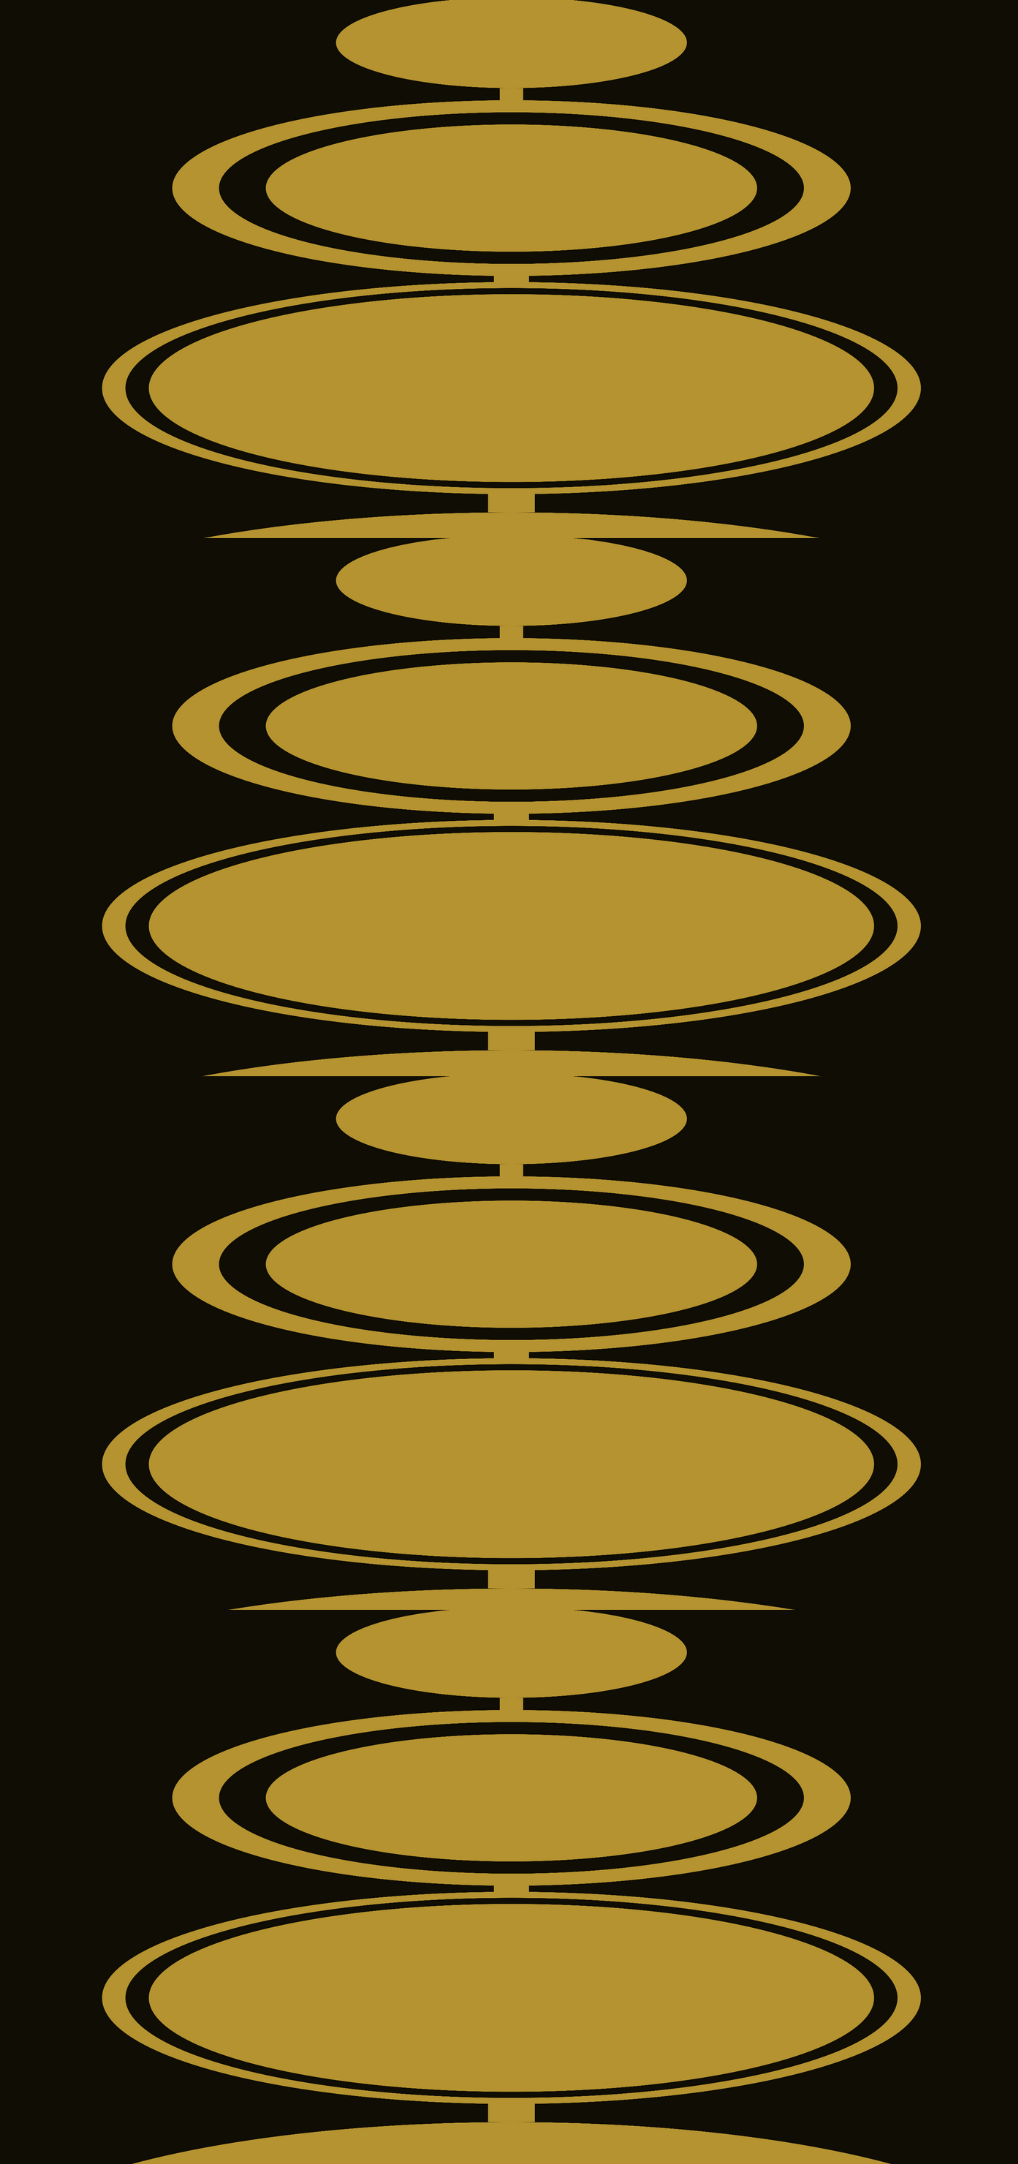
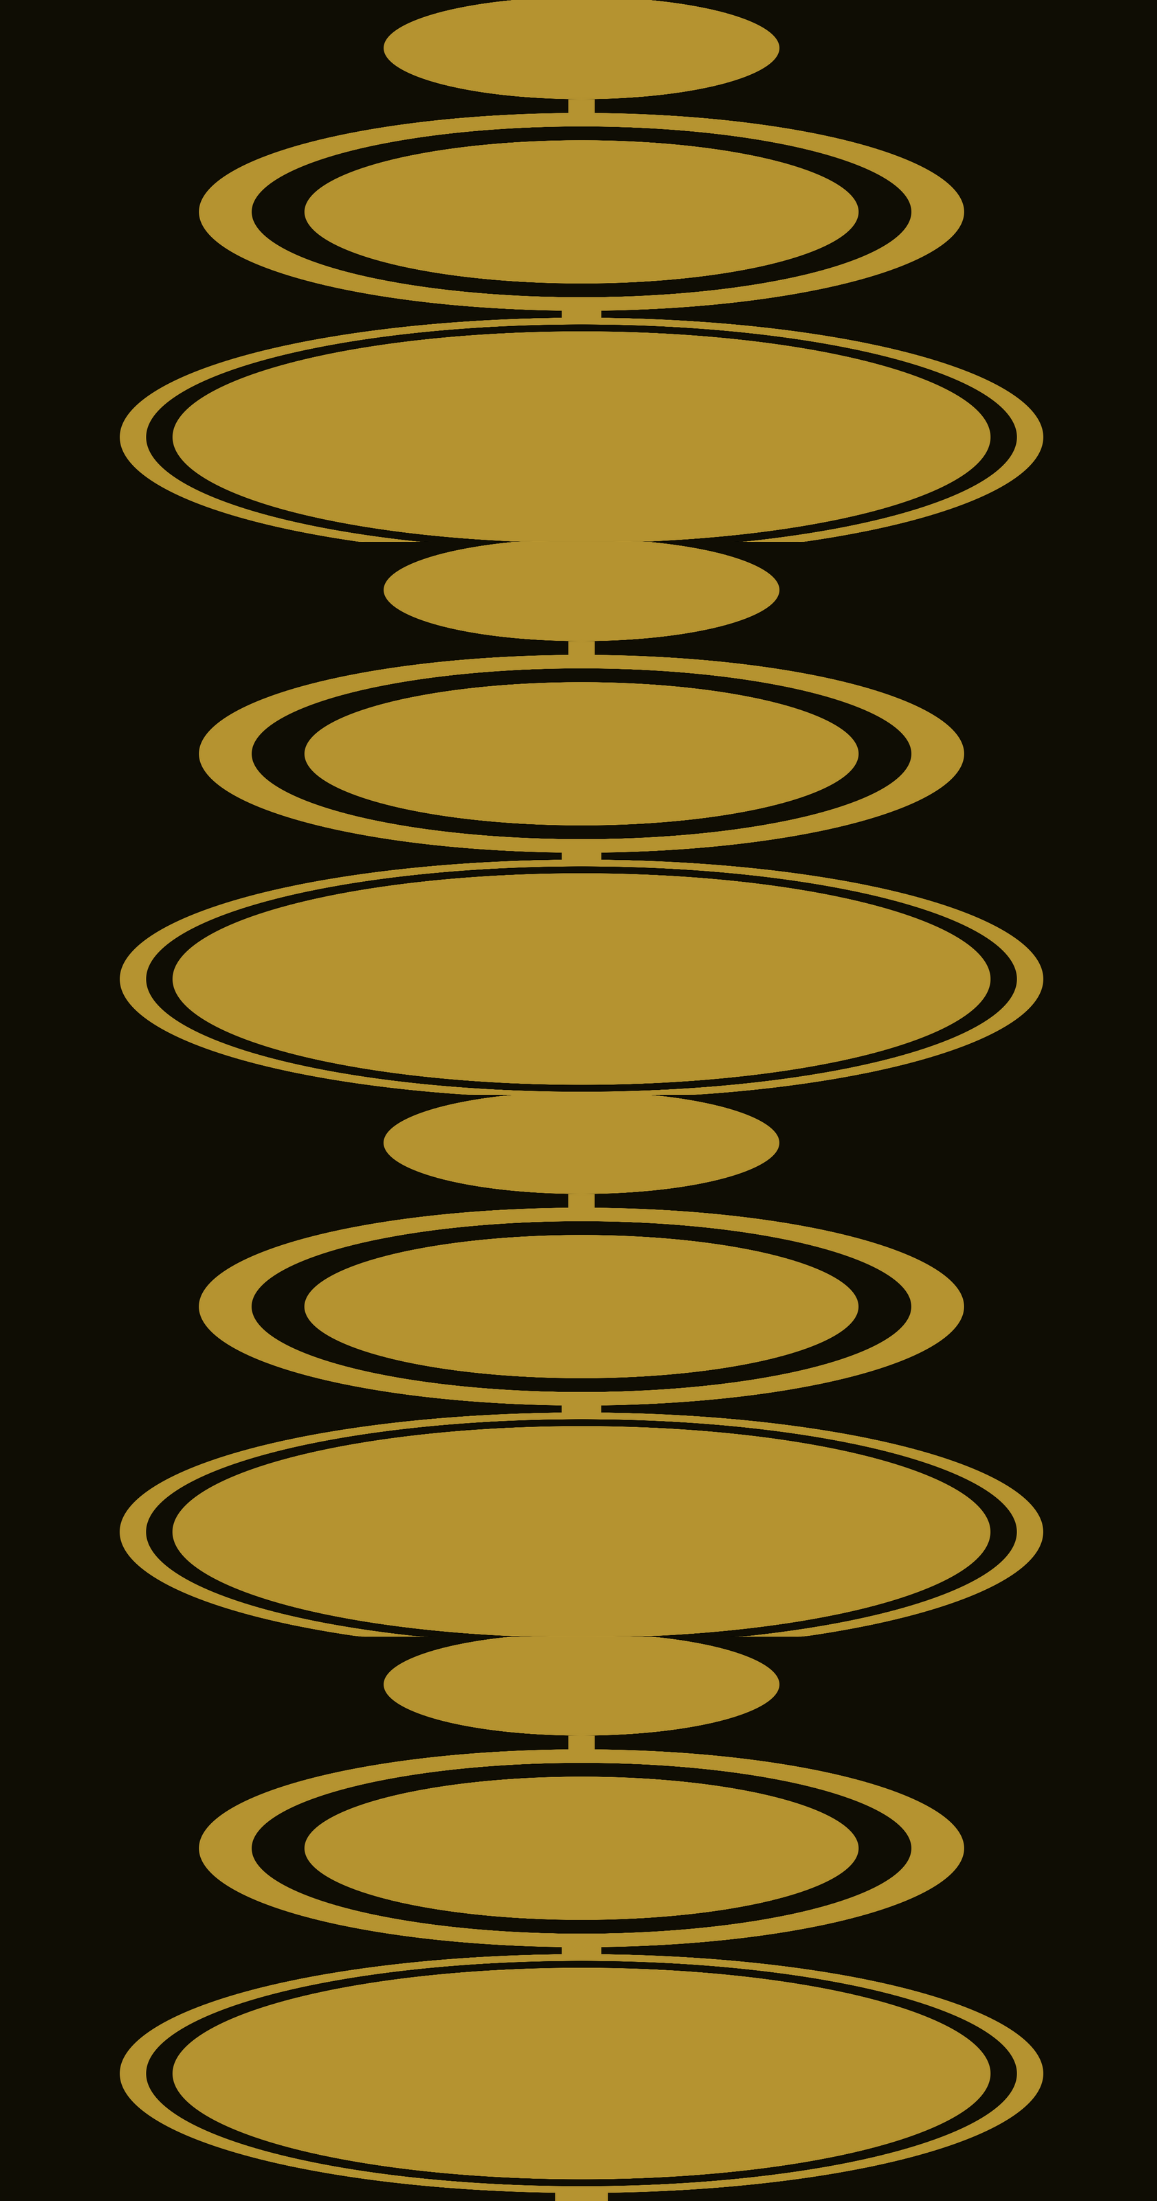
updated background

Changed region(s): [[0.0914, 0.2787, 0.9136, 1.0], [0.0914, 0.0, 0.9136, 0.2477]]

diff --git a/src/components/Videos/Videos.jsx b/src/components/Videos/Videos.jsx
@@ -7,10 +7,12 @@ const Videos = () => {
         <main id='Videos' className='flex flex-col items-center justify-center w-full h-auto'>
             <article className='videos-header flex justify-center items-center w-full h-16'>
                 <img src={ZepSymbolThree} alt='Zeppelin Symbol' className='w-10 h-10' />
-                <header className='flex justify-center items-center text-5xl mx-10'>VIDEOS</header>
+                <header className='flex justify-center items-center text-5xl mx-10'>VIDEO</header>
                 <img src={ZepSymbolThree} alt='Zeppelin Symbol' className='w-10 h-10' />
             </article>
-            <Video />
+            <article className='video-container w-full h-full'>
+                <Video />
+            </article>
             <article className='videos-top-btn-container flex justify-center w-full h-auto'>
                 <button className='videos-top-btn w-fit h-auto my-3 text-4xl' onClick={() => setTimeout(() => {
                     const element = document.querySelector('#top');

diff --git a/src/components/Band/Band.css b/src/components/Band/Band.css
@@ -21,15 +21,27 @@
     position: absolute;
     content: '';
     background-size:cover;
-    background-image: url('../../../public/TripleCropCircleAlt.png');
+    background-image: url('../../../public/TripleCropCircle.png');
     background-repeat: no-repeat;
     background-position: top center;
     width: 100%;
     height: 100%;
     z-index: 0;
-    opacity: .25;
+    opacity: .15;
     filter: sepia(.5);
 }
+
+@media (min-width: 481px) and (max-width: 830px) {
+   .band-member-container::before {
+    background-image: url('../../../public/DoubleCropCircle.png');
+    }
+}
+
+@media (max-width: 480px) {
+    .band-member-container::before {
+     background-image: url('../../../public/EightCropCircle.png');
+     }
+ }
  /* #Band::before{
     position: absolute;
     top: 5rem;
@@ -56,9 +68,6 @@
     border-bottom: var(--BORDER-ONE);
 }
 
-.band-member-container{
-
-}
 
 .band-top-btn-container{
     background-color: var(--BACKGROUND-COLOR-TWO);

diff --git a/src/components/Contact/Contact.jsx b/src/components/Contact/Contact.jsx
@@ -10,7 +10,9 @@ const Contact = () => {
                 <header className='flex justify-center items-center text-5xl mx-10'>CONTACT</header>
                 <img src={ZepSymbolTwo} alt='Zeppelin Symbol' className='w-10 h-10' />
             </article>
-            <ContactForm />
+            <article className='contact-container w-full h-full'>
+                <ContactForm />
+            </article>
             <article className='contact-top-btn-container flex justify-center w-full h-auto'>
                 <button className='contact-top-btn w-fit h-auto my-3 text-4xl' onClick={() => setTimeout(() => {
                     const element = document.querySelector('#top');

diff --git a/src/components/Contact/Contact.css b/src/components/Contact/Contact.css
@@ -4,7 +4,7 @@
     width: 100%;
     height: auto;
 }
-#Contact::before{
+/* #Contact::before{
     position: absolute;
     content: '';
     background-size:cover;
@@ -16,6 +16,21 @@
     z-index: 0;
     opacity: .15;
     filter: grayscale(.4);
+} */
+
+.contact-container::before{
+    position: absolute;
+    content: '';
+    background-size:cover;
+    background-image: url('../../../public/SingleCropCircle.png');
+    background-repeat: no-repeat;
+    background-position: top center;
+    width: 100%;
+    height: 80%;
+    z-index: 0;
+    opacity: .15;
+    filter: sepia(.5);
+    overflow: hidden;
 }
 
 .contact-header{

diff --git a/src/components/Videos/Videos.css b/src/components/Videos/Videos.css
@@ -5,7 +5,7 @@
     height: auto;
 }
 
-#Videos::before{
+/* #Videos::before{
     position: absolute;
     content: '';
     background-size:cover;
@@ -17,6 +17,20 @@
     z-index: 0;
     opacity: .15;
     filter: grayscale(.4);
+} */
+
+.video-container::before{
+    position: absolute;
+    content: '';
+    background-size:cover;
+    background-image: url('../../../public/DoubleCropCircle.png');
+    background-repeat: no-repeat;
+    background-position: top center;
+    width: 100%;
+    height: 100%;
+    z-index: 0;
+    opacity: .15;
+    filter: sepia(.5);
 }
 
 .videos-header{

diff --git a/src/components/Shows/Shows.css b/src/components/Shows/Shows.css
@@ -22,7 +22,7 @@
     position: absolute;
     content: '';
     background-size:cover;
-    background-image: url('../../../public/DoubleCropCirclesAlt.png');
+    background-image: url('../../../public/TripleCropCircle.png');
     background-repeat: no-repeat;
     background-position: top center;
     width: 100%;
@@ -31,6 +31,12 @@
     opacity: .15;    
     filter: sepia(.5)
 }
+
+@media (max-width: 480px) {
+    .show-card-container::before {
+     background-image: url('../../../public/SixCropCircle.png');
+     }
+ }
 
 .shows-header{
     color: var(--FONT-COLOR-TWO);

diff --git a/src/components/Navbar/Navbar.jsx b/src/components/Navbar/Navbar.jsx
@@ -14,7 +14,7 @@ const Navbar = () => {
             <button className='nav-btn' onClick={() => setTimeout(() => {
                 const element = document.querySelector('#Videos');
                 element?.scrollIntoView({ behavior: 'smooth' })
-            }, 500)}>VIDEOS</button>
+            }, 500)}>VIDEO</button>
             <button className='nav-btn' onClick={() => setTimeout(() => {
                 const element = document.querySelector('#Testimonials');
                 element?.scrollIntoView({ behavior: 'smooth' })

diff --git a/src/Utils/Navlinks.jsx b/src/Utils/Navlinks.jsx
@@ -17,7 +17,7 @@ const navLinks = [
         id: 2
     },
     {
-        title: 'Videos',
+        title: 'Video',
         href: '#Videos',
         pic: ZepPicThree,
         id: 3
